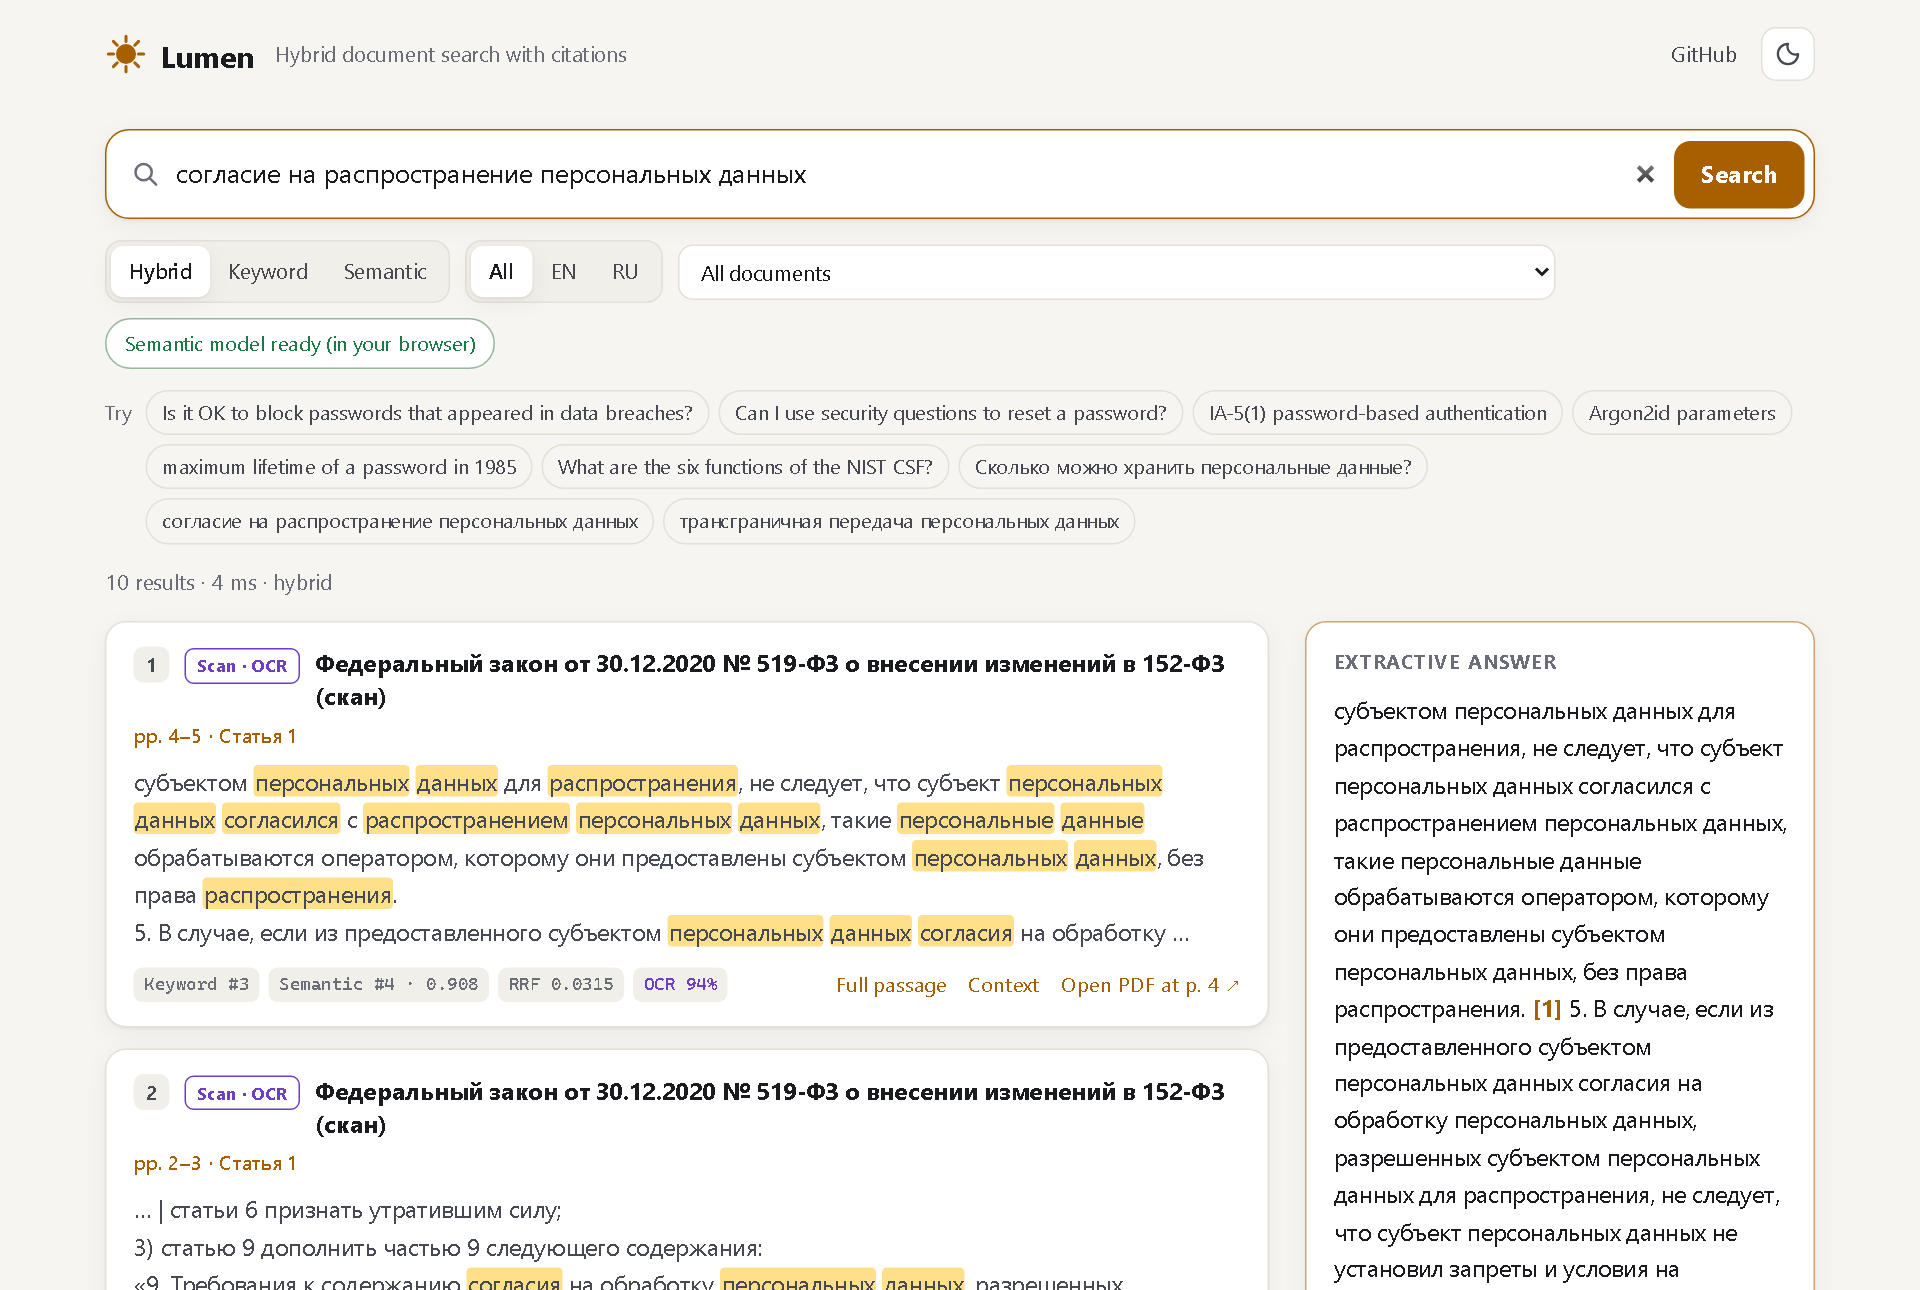
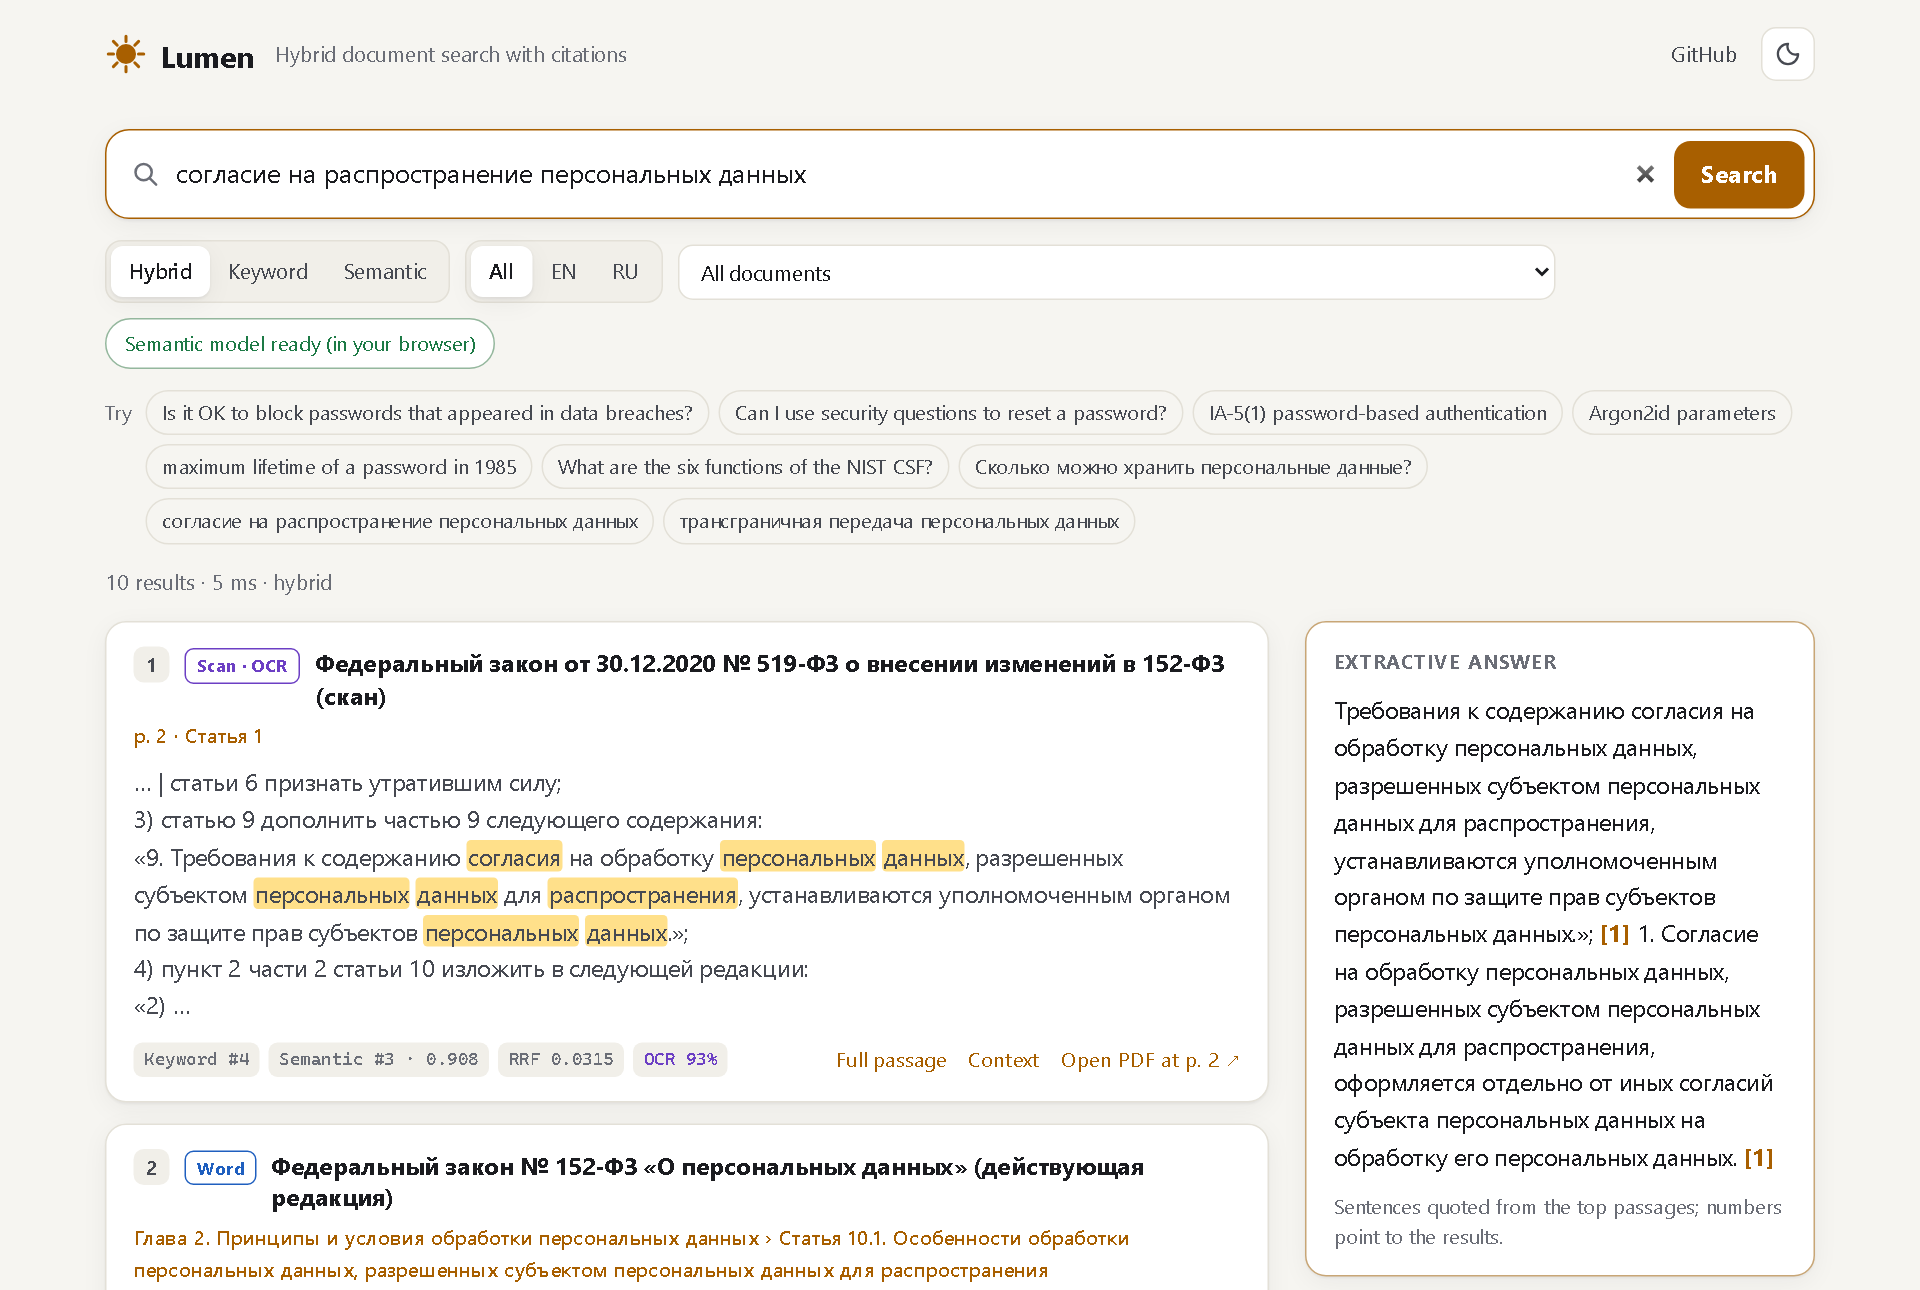
README: screenshots and demo recording from the live site

Changed region(s): [[0.0625, 0.5581, 0.6562, 1.0], [0.6875, 0.5271, 0.9375, 0.9922]]

diff --git a/README.md b/README.md
@@ -15,6 +15,12 @@ Redis, OCR on upload and cross-encoder reranking — starts with `docker compose
 
 ![Searching in English and Russian; results cite a page, an article or a spreadsheet row](docs/demo.gif)
 
+| A paraphrased question, answered from the NIST guideline with page and section | A Russian query; the best match is in a scanned law read with OCR |
+| --- | --- |
+| ![Hybrid search results with highlights and an extractive answer](docs/screenshots/hybrid-search.png) | ![Russian results from an OCR scan, with OCR confidence](docs/screenshots/russian-and-ocr.png) |
+| **The API with reranking: Article 12 moves from #46 (keyword) to #1** | **A spreadsheet row with the rows around it** |
+| ![Reranked results from the FastAPI service](docs/screenshots/api-reranked.png) | ![Context viewer on an Excel row](docs/screenshots/excel-row-context.png) |
+
 ## What it does
 
 - **Reads real documents.** PDF (born-digital and scanned), Word, Excel and CSV, Markdown, HTML, plain
